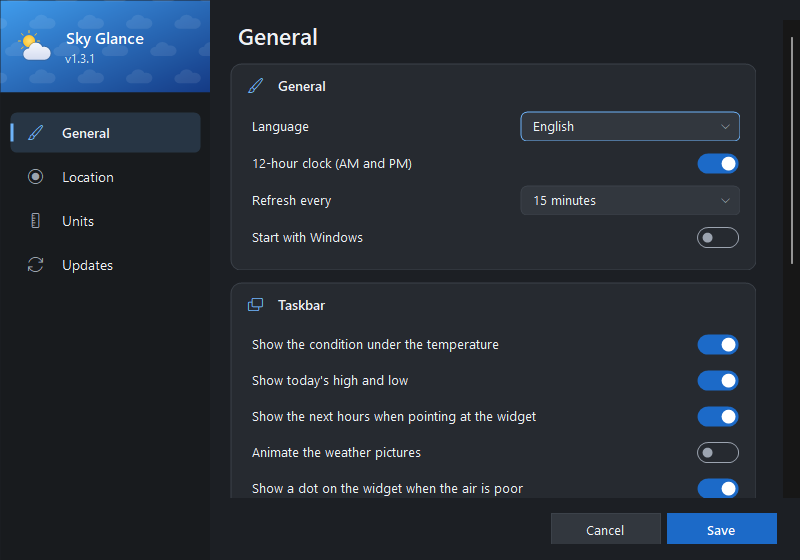
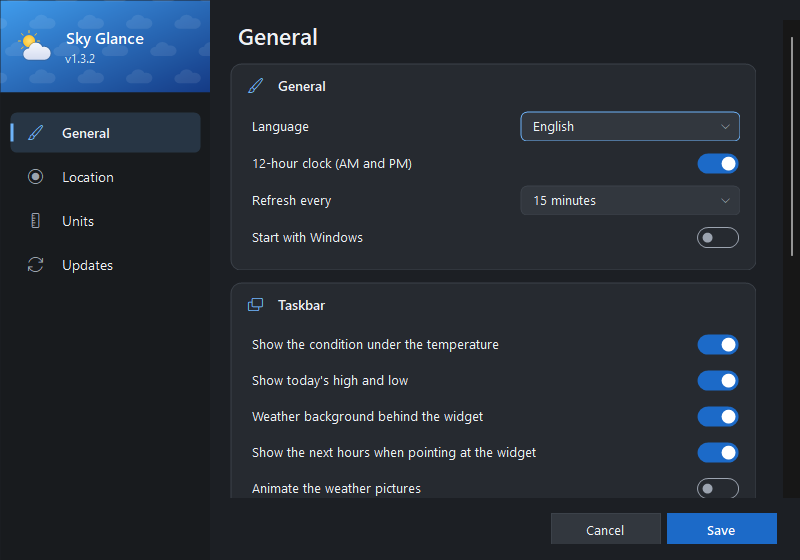
A weather background behind the widget, with its own colours for each kind of weather

diff --git a/src/SkyGlance/UI/Taskbar/TaskbarWidget.cs b/src/SkyGlance/UI/Taskbar/TaskbarWidget.cs
@@ -53,8 +53,8 @@ sealed class TaskbarWidget : NativeWindow
 
     // Extras: a dot for poor air, and rain or snow drifting in the picture.
     Color? badge;
-    bool animate;
-    float drift;
+    bool animate, scene;
+    float drift, seconds;
 
     /// <summary>Shows or hides the update progress line. A null fraction slides, for work with no known end.</summary>
     public void SetProgress(bool isBusy, double? done)
@@ -67,10 +67,11 @@ sealed class TaskbarWidget : NativeWindow
 
     /// <param name="airDot">Colour of a dot by the picture when the air is poor, or null for none.</param>
     /// <param name="animated">Animate the picture: rain and snow fall, clouds and fog drift, the sun glows, stars twinkle.</param>
-    public void SetExtras(Color? airDot, bool animated)
+    /// <param name="weatherScene">Paint a small sky for the weather behind the widget instead of the plain pill.</param>
+    public void SetExtras(Color? airDot, bool animated, bool weatherScene)
     {
-        if (airDot == badge && animated == animate) return;
-        badge = airDot; animate = animated;
+        if (airDot == badge && animated == animate && weatherScene == scene) return;
+        badge = airDot; animate = animated; scene = weatherScene;
         SyncAnim();
         if (Alive) Render();
     }
@@ -87,7 +88,12 @@ sealed class TaskbarWidget : NativeWindow
             {
                 if (busy && fraction == null) phase = (phase + 0.02f) % 1f;
                 // While the progress line slides (30 frames a second) the picture steps at the same speed per second.
-                if (Drifting) drift = (drift + Art.DriftStep(icon) * (busy && fraction == null ? 33f / 83f : 1f)) % 1f;
+                if (Drifting)
+                {
+                    float share = busy && fraction == null ? 33f / 83f : 1f;
+                    drift = (drift + Art.DriftStep(icon) * share) % 1f;
+                    seconds += 0.083f * share;
+                }
                 if (Alive) Render();
             };
         }
@@ -301,7 +307,7 @@ sealed class TaskbarWidget : NativeWindow
     {
         if (!GetWindowRect(tray, out var tr)) return;
         using var bmp = Paint(temp, condition, showHiLo ? hiLo : null, icon, day, showCondition, hover, rtl, SystemDark(), Scale, tr.Height,
-                              busy ? new Progress(fraction, phase) : null, badge, Drifting ? drift : -1);
+                              busy ? new Progress(fraction, phase) : null, badge, Drifting ? drift : -1, scene, Drifting ? seconds : 0);
         size = bmp.Size;
         var screen = GetDC(IntPtr.Zero);
         var mem = CreateCompatibleDC(screen);
@@ -333,7 +339,7 @@ sealed class TaskbarWidget : NativeWindow
     /// <param name="airDot">Colour of the poor-air dot beside the picture, or null.</param>
     /// <param name="drift">Where falling rain or snow is in the animation (0 to 1), or negative for the still picture.</param>
     public static Bitmap Paint(string temp, string condition, string? highLow, SkyIcon icon, bool isDay, bool withCondition, bool hover, bool rtl, bool dark, float s, int h,
-                               Progress? progress = null, Color? airDot = null, float drift = -1)
+                               Progress? progress = null, Color? airDot = null, float drift = -1, bool scene = false, float seconds = 0)
     {
         // Same sizes as the sibling widgets (Data Tide 13.5 px Semibold, Salaty Reminder 12 px), so they read as one family.
         using var fTemp = new Font("Segoe UI Semibold", (withCondition ? 13.5f : 15f) * s, GraphicsUnit.Pixel);
@@ -360,6 +366,38 @@ sealed class TaskbarWidget : NativeWindow
             g.TextRenderingHint = TextRenderingHint.AntiAliasGridFit; // grayscale AA: correct on per-pixel alpha
             g.Clear(Color.FromArgb(1, 0, 0, 0)); // alpha 1 keeps the whole box clickable
 
+            if (scene)
+            {
+                // A small sky for the weather: its colours, a faint drifting cloud pattern, and the weather on top
+                // (a warm glow behind the sun, stars at night, rain streaks, snowflakes). Lighter on hover.
+                var box = new RectangleF(1, 4 * s, w - 2, h - 8 * s);
+                using var path = Art.RoundRect(box, 6 * s);
+                var (c1, c2) = Art.SceneColors(icon, isDay);
+                using (var bg = new LinearGradientBrush(box, Color.FromArgb(240, c1), Color.FromArgb(240, c2), LinearGradientMode.ForwardDiagonal))
+                    g.FillPath(bg, path);
+                var st = g.Save();
+                g.SetClip(path);
+                var area = Rectangle.Round(box);
+                if (isDay && icon is SkyIcon.Clear or SkyIcon.PartlyCloudy)
+                {
+                    float gx = rtl ? w - pad - iconS / 2f : pad + iconS / 2f, gy = h / 2f, gr = h * 0.9f;
+                    using var glow = new GraphicsPath();
+                    glow.AddEllipse(gx - gr, gy - gr, gr * 2, gr * 2);
+                    using var gb = new PathGradientBrush(glow) { CenterColor = Color.FromArgb(110, 255, 214, 120), SurroundColors = [Color.FromArgb(0, 255, 214, 120)] };
+                    g.FillPath(gb, glow);
+                }
+                Art.CloudPattern(g, area, 26 * s, Color.FromArgb(16, 255, 255, 255), seconds * 4 * s);
+                Art.HeaderWeather(g, area, icon, isDay, seconds, s);
+                if (icon == SkyIcon.Fog)
+                    using (var mist = new SolidBrush(Color.FromArgb(40, 230, 236, 244)))
+                        for (int i = 0; i < 3; i++)
+                            g.FillRectangle(mist, area.X, area.Y + area.Height * (0.25f + 0.25f * i) + MathF.Sin(seconds * 0.8f + i) * 2 * s, area.Width, 3 * s);
+                if (hover) using (var lift = new SolidBrush(Color.FromArgb(28, 255, 255, 255))) g.FillRectangle(lift, area);
+                g.Restore(st);
+                using var edge = new Pen(Color.FromArgb(dark ? 60 : 50, 255, 255, 255), Math.Max(1f, s));
+                g.DrawPath(edge, path);
+            }
+            else
             // Soft sky-blue pill like the other widgets, brighter on hover.
             {
                 var box = new RectangleF(1, 4 * s, w - 2, h - 8 * s);
@@ -384,8 +422,9 @@ sealed class TaskbarWidget : NativeWindow
                 g.FillEllipse(dot, cx - r, cy - r, 2 * r, 2 * r);
             }
 
-            Color fg = dark ? Color.White : Color.FromArgb(20, 20, 20);
-            Color dim = dark ? Color.FromArgb(210, 220, 228) : Color.FromArgb(70, 76, 84);
+            // On a weather background the text is always white, like the flyout's header.
+            Color fg = scene || dark ? Color.White : Color.FromArgb(20, 20, 20);
+            Color dim = scene ? Color.FromArgb(225, 234, 244) : dark ? Color.FromArgb(210, 220, 228) : Color.FromArgb(70, 76, 84);
             int textX = rtl ? pad : pad + iconS + gap;
             using var sf = new StringFormat
             {

diff --git a/src/SkyGlance/UI/Styling/Art.cs b/src/SkyGlance/UI/Styling/Art.cs
@@ -59,6 +59,31 @@ static class Art
         g.SmoothingMode = old;
     }
 
+    /// <summary>
+    /// The widget's background colours, one pair per kind of weather so each reads at a glance: blue for a clear
+    /// sky, slate for rain, icy blue for snow, misty grey for fog, violet for thunder. Night is deeper and bluer.
+    /// All are dark enough for white text.
+    /// </summary>
+    public static (Color top, Color bottom) SceneColors(SkyIcon icon, bool day)
+    {
+        (Color a, Color b) c = icon switch
+        {
+            SkyIcon.Clear => (SkyLight, SkyDark),
+            SkyIcon.PartlyCloudy => (Color.FromArgb(92, 148, 210), Color.FromArgb(44, 92, 160)),
+            SkyIcon.Cloudy => (Color.FromArgb(118, 136, 160), Color.FromArgb(66, 82, 108)),
+            SkyIcon.Fog => (Color.FromArgb(132, 140, 152), Color.FromArgb(86, 94, 108)),
+            SkyIcon.Drizzle => (Color.FromArgb(92, 122, 156), Color.FromArgb(52, 74, 104)),
+            SkyIcon.Rain => (Color.FromArgb(70, 92, 124), Color.FromArgb(34, 50, 78)),
+            SkyIcon.Sleet => (Color.FromArgb(84, 112, 146), Color.FromArgb(44, 66, 100)),
+            SkyIcon.Snow => (Color.FromArgb(126, 158, 196), Color.FromArgb(74, 104, 146)),
+            SkyIcon.Thunder => (Color.FromArgb(84, 70, 124), Color.FromArgb(32, 24, 56)),
+            _ => (SkyLight, SkyDark),
+        };
+        if (day) return c;
+        static Color Night(Color x) => Color.FromArgb(x.R * 40 / 100, x.G * 44 / 100, Math.Min(255, x.B * 58 / 100 + 18));
+        return (Night(c.a), Night(c.b));
+    }
+
     public static GraphicsPath RoundRect(RectangleF r, float rad)
     {
         var p = new GraphicsPath();
@@ -338,9 +363,12 @@ static class Art
         g.SmoothingMode = SmoothingMode.AntiAlias;
         static float Hash(int i, int k) { uint h = (uint)(i * 374761393 + k * 668265263); h = (h ^ (h >> 13)) * 1274126177; return (h ^ (h >> 16)) / (float)uint.MaxValue; }
         float w = area.Width, h = area.Height;
+        // The counts are for the flyout's header (380 by 166); a smaller area such as the widget gets fewer.
+        float share = Math.Min(1f, w * h / (380f * 166f * s * s));
+        int Count(int full) => Math.Max(full / 5, (int)(full * share));
         if (icon is SkyIcon.Rain or SkyIcon.Drizzle or SkyIcon.Thunder or SkyIcon.Sleet)
         {
-            int count = icon == SkyIcon.Drizzle ? 26 : 44;
+            int count = Count(icon == SkyIcon.Drizzle ? 26 : 44);
             float len = (icon == SkyIcon.Drizzle ? 8 : 14) * s, speed = (icon == SkyIcon.Drizzle ? 120 : 260) * s;
             using var pen = new Pen(Color.FromArgb(icon == SkyIcon.Drizzle ? 50 : 70, 220, 235, 255), Math.Max(1f, 1.2f * s)) { StartCap = LineCap.Round, EndCap = LineCap.Round };
             for (int i = 0; i < count; i++)
@@ -352,7 +380,7 @@ static class Art
         }
         if (icon is SkyIcon.Snow or SkyIcon.Sleet)
         {
-            int count = icon == SkyIcon.Snow ? 34 : 14;
+            int count = Count(icon == SkyIcon.Snow ? 34 : 14);
             for (int i = 0; i < count; i++)
             {
                 float r = (1.2f + 1.6f * Hash(i, 4)) * s, travel = h + r * 4;
@@ -364,7 +392,7 @@ static class Art
         }
         if (!day && icon is SkyIcon.Clear or SkyIcon.PartlyCloudy)
         {
-            for (int i = 0; i < 26; i++)
+            for (int i = 0, stars = Count(26); i < stars; i++)
             {
                 float k = (1 + MathF.Sin(seconds * (1.2f + Hash(i, 8)) + i * 2.1f)) / 2;
                 float r = (0.8f + 1.2f * Hash(i, 9)) * s * (0.6f + 0.6f * k);

diff --git a/src/SkyGlance/DevTools/Shots.cs b/src/SkyGlance/DevTools/Shots.cs
@@ -107,6 +107,8 @@ static class Shots
         }
         Icons(Path.Combine(dir, "icons.png"));
         AnimationFrames(Path.Combine(dir, "animation-frames.png"));
+        L.Ar = false;
+        WidgetScenes(Path.Combine(dir, "widget-scenes.png"));
         Menu(Path.Combine(dir, "menu-dark.png"), true);
         Menu(Path.Combine(dir, "menu-light.png"), false);
         return 0;
@@ -118,7 +120,7 @@ static class Shots
     {
         const float s = 1.5f;
         int h = (int)(48 * s);
-        using var widget = TaskbarWidget.Paint(temp, condition, highLow, icon, day, true, false, rtl, true, s, h, progress, airDot, drift);
+        using var widget = TaskbarWidget.Paint(temp, condition, highLow, icon, day, true, false, rtl, true, s, h, progress, airDot, drift, scene: true);
         using var strip = new Bitmap(widget.Width + (int)(40 * s), h);
         using (var g = Graphics.FromImage(strip))
         {
@@ -141,6 +143,33 @@ static class Shots
             for (int i = 0; i < all.Length; i++)
                 Art.Weather(g, new RectangleF(12 + i * (n + 12), 12 + row * (n + 12), n, n), all[i], row % 2 == 0);
         bmp.Save(path, ImageFormat.Png);
+    }
+
+    /// <summary>The widget's weather background for each kind of weather, by day and night, on a dark and a light taskbar.</summary>
+    static void WidgetScenes(string path)
+    {
+        int[] codes = [0, 2, 3, 45, 53, 63, 66, 73, 95];
+        const float s = 1.25f;
+        int h = (int)(48 * s);
+        var cells = new List<(Bitmap bmp, bool darkBar)>();
+        foreach (bool darkBar in new[] { true, false })
+            foreach (int code in codes)
+                foreach (bool day in new[] { true, false })
+                    cells.Add((TaskbarWidget.Paint("21°", L.Condition(code), "↑24° ↓14°", WeatherCode.Icon(code), day, true, false, false, darkBar, s, h, scene: true), darkBar));
+        int cw = cells.Max(c => c.bmp.Width) + 12, rows = codes.Length * 2;
+        using var sheet = new Bitmap(cw * 2 * 2 + 12, rows / 2 * h + 12);
+        using (var g = Graphics.FromImage(sheet))
+        {
+            g.Clear(Color.FromArgb(28, 28, 28));
+            g.FillRectangle(new SolidBrush(Color.FromArgb(238, 241, 245)), cw * 2 + 6, 0, sheet.Width, sheet.Height);
+            for (int i = 0; i < cells.Count; i++)
+            {
+                int bar = i / (codes.Length * 2), k = i % (codes.Length * 2), row = k / 2, col = k % 2;
+                g.DrawImage(cells[i].bmp, 6 + bar * (cw * 2 + 6) + col * cw, 6 + row * h);
+                cells[i].bmp.Dispose();
+            }
+        }
+        sheet.Save(path, ImageFormat.Png);
     }
 
     /// <summary>Frames from each picture's animation (day and night, on the dark taskbar colour), for a visual check.</summary>

diff --git a/src/SkyGlance/UI/Settings/SettingsForm.cs b/src/SkyGlance/UI/Settings/SettingsForm.cs
@@ -13,7 +13,7 @@ sealed class SettingsForm : Form
     readonly ThemedCombo cmbLang = Combo(), cmbSide = Combo(), cmbRefresh = Combo();
     readonly ThemedNumber numOffset = Num(-2000, 2000);
     readonly ToggleSwitch tglStartup = new(), tglCondition = new(), tglHighLow = new(), tglExtremes = new(), tglSeason = new(),
-        tglAir = new(), tglSky = new(), tglAirDot = new(), tglRain = new(), tglHover = new(), tglAnimate = new(), tglClock12 = new();
+        tglAir = new(), tglSky = new(), tglAirDot = new(), tglRain = new(), tglHover = new(), tglAnimate = new(), tglClock12 = new(), tglScene = new();
     static readonly int[] RefreshOptions = [10, 15, 30, 60];
     // Location
     readonly ToggleSwitch tglAuto = new();
@@ -138,6 +138,7 @@ sealed class SettingsForm : Form
         tglHover.Checked = s.HoverCard;
         tglAnimate.Checked = s.AnimateIcon;
         tglClock12.Checked = s.Clock12;
+        tglScene.Checked = s.WidgetScene;
         var rainNote = new Label { Text = L.T("RainAlertsNote"), AutoSize = true, MaximumSize = new Size(490, 0), Tag = "dim", Margin = new Padding(0, 0, 0, 6) };
         tglStartup.Checked = !app.Headless && AppSettings.StartWithWindows;
         AddPage(Art.IconGeneral, L.T("General"),
@@ -149,6 +150,7 @@ sealed class SettingsForm : Form
             Card(L.T("Taskbar"), Art.IconTaskbar,
                 Row(L.T("ShowCondition"), tglCondition),
                 Row(L.T("ShowHighLow"), tglHighLow),
+                Row(L.T("WidgetScene"), tglScene),
                 Row(L.T("HoverCardSetting"), tglHover),
                 Row(L.T("AnimateIcon"), tglAnimate),
                 Row(L.T("AirDot"), tglAirDot),
@@ -352,6 +354,7 @@ sealed class SettingsForm : Form
         s.HoverCard = tglHover.Checked;
         s.AnimateIcon = tglAnimate.Checked;
         s.Clock12 = tglClock12.Checked;
+        s.WidgetScene = tglScene.Checked;
         s.AutoLocation = tglAuto.Checked;
         // The city may have been switched from the flyout while this window was open: keep that unless the list changed.
         if (s.Cities.Select(c => c.Key).SequenceEqual(app.S.Cities.Select(c => c.Key))) s.ActiveCity = app.S.ActiveCity;

diff --git a/src/SkyGlance/SkyGlanceApp.cs b/src/SkyGlance/SkyGlanceApp.cs
@@ -327,7 +327,7 @@ sealed class SkyGlanceApp : ApplicationContext
         string t = now is { } n ? UnitFormat.Temperature(n.tempC, S.Temperature) : "--";
         string cond = now is { } m ? L.Condition(m.code) : !S.HasLocation ? L.T("Location") : "";
         widget.SetContent(t, cond, S.ShowHighLow ? HighLow() ?? "" : null, now is { } k ? WeatherCode.Icon(k.code) : SkyIcon.Cloudy, now?.day ?? true, S.ShowCondition, L.Ar);
-        widget.SetExtras(S.AirDot && Air?.Category is { } c && c >= AirCategory.Poor ? Art.AirColor(c) : null, S.AnimateIcon);
+        widget.SetExtras(S.AirDot && Air?.Category is { } c && c >= AirCategory.Poor ? Art.AirColor(c) : null, S.AnimateIcon, S.WidgetScene);
     }
 
     // ---------- windows ----------

diff --git a/src/SkyGlance/Configuration/AppSettings.cs b/src/SkyGlance/Configuration/AppSettings.cs
@@ -37,6 +37,8 @@ public sealed class AppSettings
     public bool ShowAirQuality { get; set; } = true;
     /// <summary>Show the moon phase and the next golden hour in the flyout.</summary>
     public bool ShowSky { get; set; } = true;
+    /// <summary>A small sky for the current weather behind the widget, instead of the plain pill.</summary>
+    public bool WidgetScene { get; set; } = true;
     /// <summary>A coloured dot on the widget when the air is poor or worse.</summary>
     public bool AirDot { get; set; } = true;
     /// <summary>A notification when rain is about to start or stop at my location.</summary>

diff --git a/src/SkyGlance/Localization/L.cs b/src/SkyGlance/Localization/L.cs
@@ -197,6 +197,7 @@ public static class L
 
         // The calendar's day.
         ["HourByHour"] = ("Hour by hour", "ساعة بساعة"),
+        ["WidgetScene"] = ("Weather background behind the widget", "خلفية حسب الطقس خلف الأداة"),
         ["Clock12"] = ("12-hour clock (AM and PM)", "نظام 12 ساعة (ص و م)"),
 
         ["Compass0"] = ("N", "ش"), ["Compass1"] = ("NE", "ش ق"), ["Compass2"] = ("E", "ق"), ["Compass3"] = ("SE", "ج ق"),

diff --git a/README.md b/README.md
@@ -30,6 +30,7 @@ with Celsius or Fahrenheit and five wind units. English and Arabic. No account, 
 - **Lives in the taskbar.** A weather picture, the temperature, today's high and low and the condition, embedded next to the notification area or at the left end. It takes the nearest free spot on either side, so it never covers other taskbar tools such as Data Tide, Salaty Reminder or TrafficMonitor, hides with the taskbar in fullscreen apps and comes back after Explorer restarts.
 - **No tray icon.** Everything lives in the widget: right-click it for every command, and run the exe again to open the forecast. Update messages arrive as Windows notifications.
 - **Forecast flyout.** Click the widget for the sky right now (with "feels like", today's high and low, and how much warmer or colder it is than this time yesterday), humidity, wind and direction, UV index, rain chance, sunrise and sunset, a 24-hour temperature chart with rain chances, and a 7-day forecast with each day's range.
+- **A sky for every weather.** The widget's background follows the weather: blue with a warm glow on a sunny day, deep blue with stars at night, slate with rain streaks, icy blue with snowflakes, misty grey for fog and violet for a storm. It can be turned off for the plain style.
 - **Hover card.** Rest the mouse on the widget for the next six hours, the wind and the air, without opening anything.
 - **Rain alerts.** A notification when rain is about to start or stop where you are, from Open-Meteo's 15-minute forecast (native in Europe and North America, worked out from the hourly model elsewhere).
 - **Air quality and pollen.** The European air quality index with its band, and the pollen level in Europe. A coloured dot on the widget when the air turns poor.
@@ -77,6 +78,8 @@ Weather alerts are not included: Open-Meteo, the free keyless service Sky Glance
     <td align="center"><img src="docs/screenshots/settings-3-en.png" width="440"><br><sub>Updates from GitHub, checked against SHA-256</sub></td>
   </tr>
 </table>
+
+<p align="center"><img src="docs/screenshots/widget-scenes.png" width="700"><br><sub>The widget's background for each kind of weather, by day and night, on a dark and a light taskbar</sub></p>
 
 All screenshots use a made-up forecast for a demo city.
 
@@ -208,6 +211,7 @@ The [release workflow](.github/workflows/release.yml) runs the tests, builds the
 - تنبيه عندما يوشك المطر أن يبدأ أو يتوقف، وبطاقة بالساعات القادمة عند الإشارة إلى الأداة
 - جودة الهواء وحبوب اللقاح، وطور القمر والساعة الذهبية، والمقارنة بطقس أمس
 - لا تغطي الأدوات الأخرى في شريط المهام مثل داتا تايد وصلاتي
+- خلفية للأداة تتبع الطقس: سماء زرقاء مشمسة، ونجوم في الليل، ومطر وثلج وضباب وعاصفة
 - واجهة عربية كاملة من اليمين إلى اليسار، ووضع داكن وفاتح يتبع ويندوز
 - بلا حساب ولا مفتاح API، وتحديث تلقائي آمن من GitHub
 

diff --git a/CHANGELOG.md b/CHANGELOG.md
@@ -3,6 +3,11 @@
 All notable changes to Sky Glance are listed here.
 The format follows [Keep a Changelog](https://keepachangelog.com/en/1.1.0/) and versions follow [Semantic Versioning](https://semver.org/).
 
+## [Unreleased]
+
+### Added
+- A sky for every weather behind the widget: blue with a warm glow on a sunny day, deep blue with stars at night, slate with rain streaks, icy blue with snowflakes, misty grey for fog and violet for a storm, with white text. With animation on, the rain, snow and stars move and the clouds drift. On by default; Settings can bring back the plain style.
+
 ## [1.3.2] - 2026-11-17
 
 ### Changed
